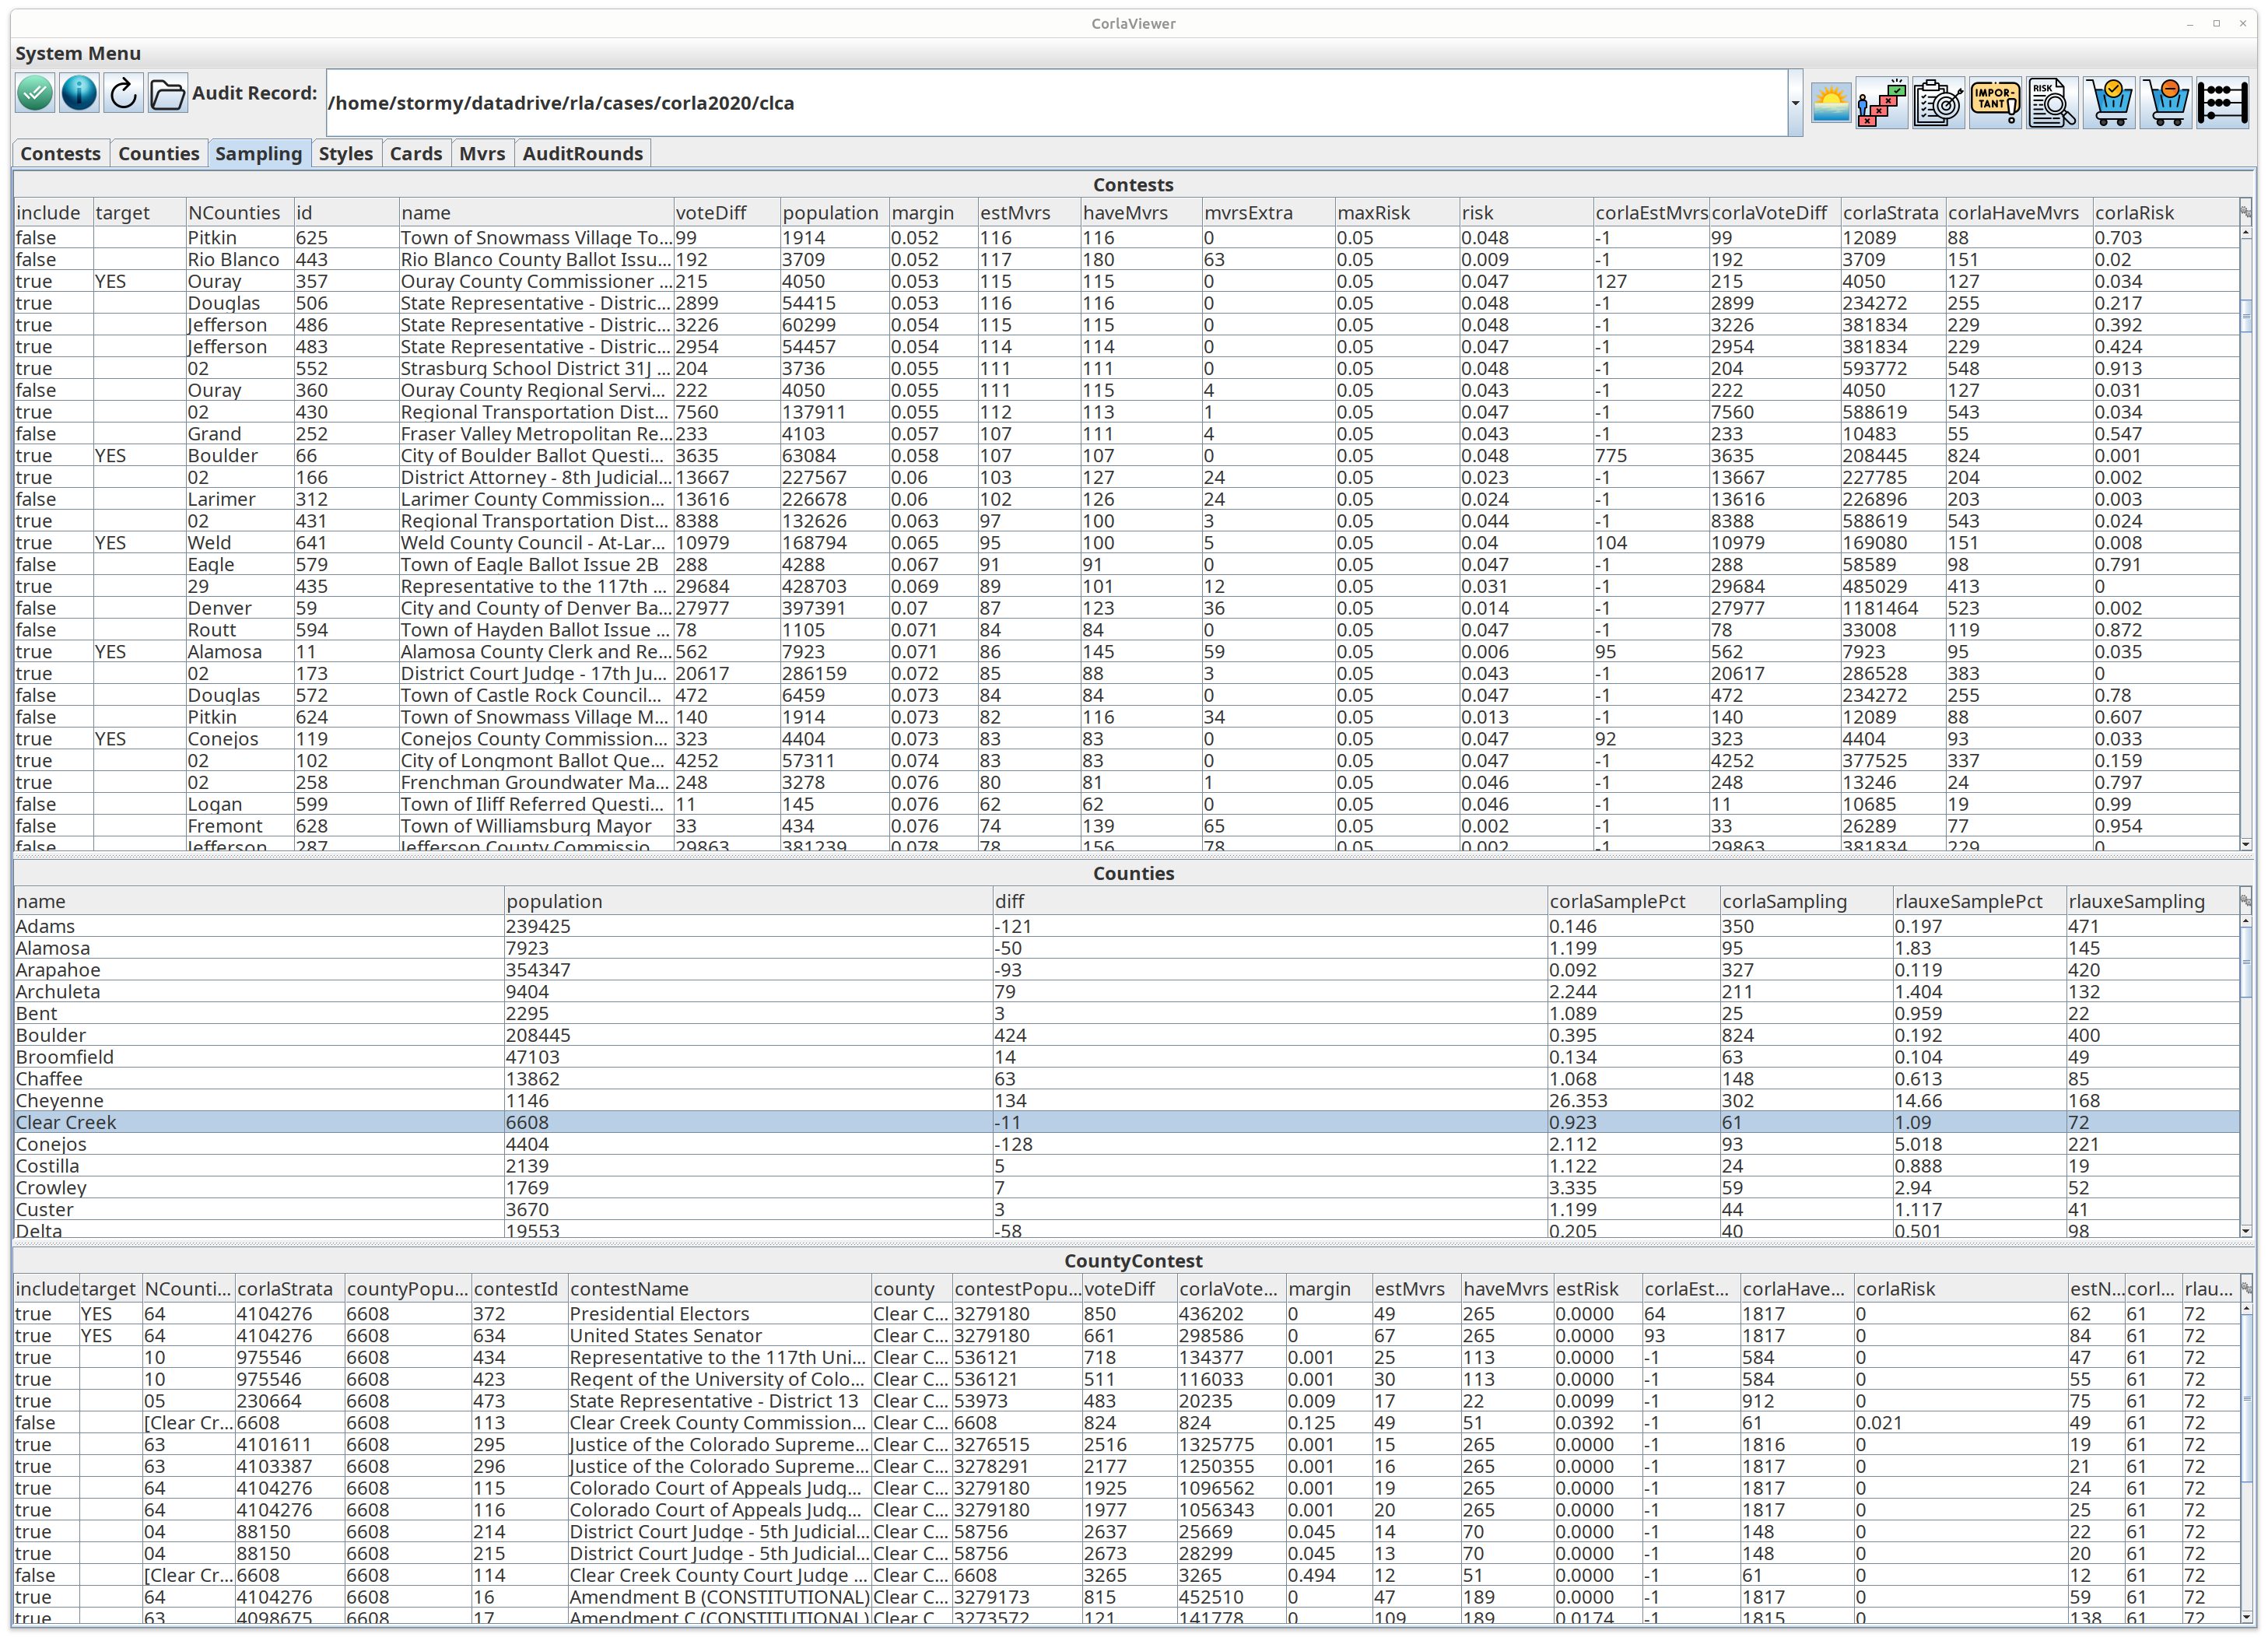
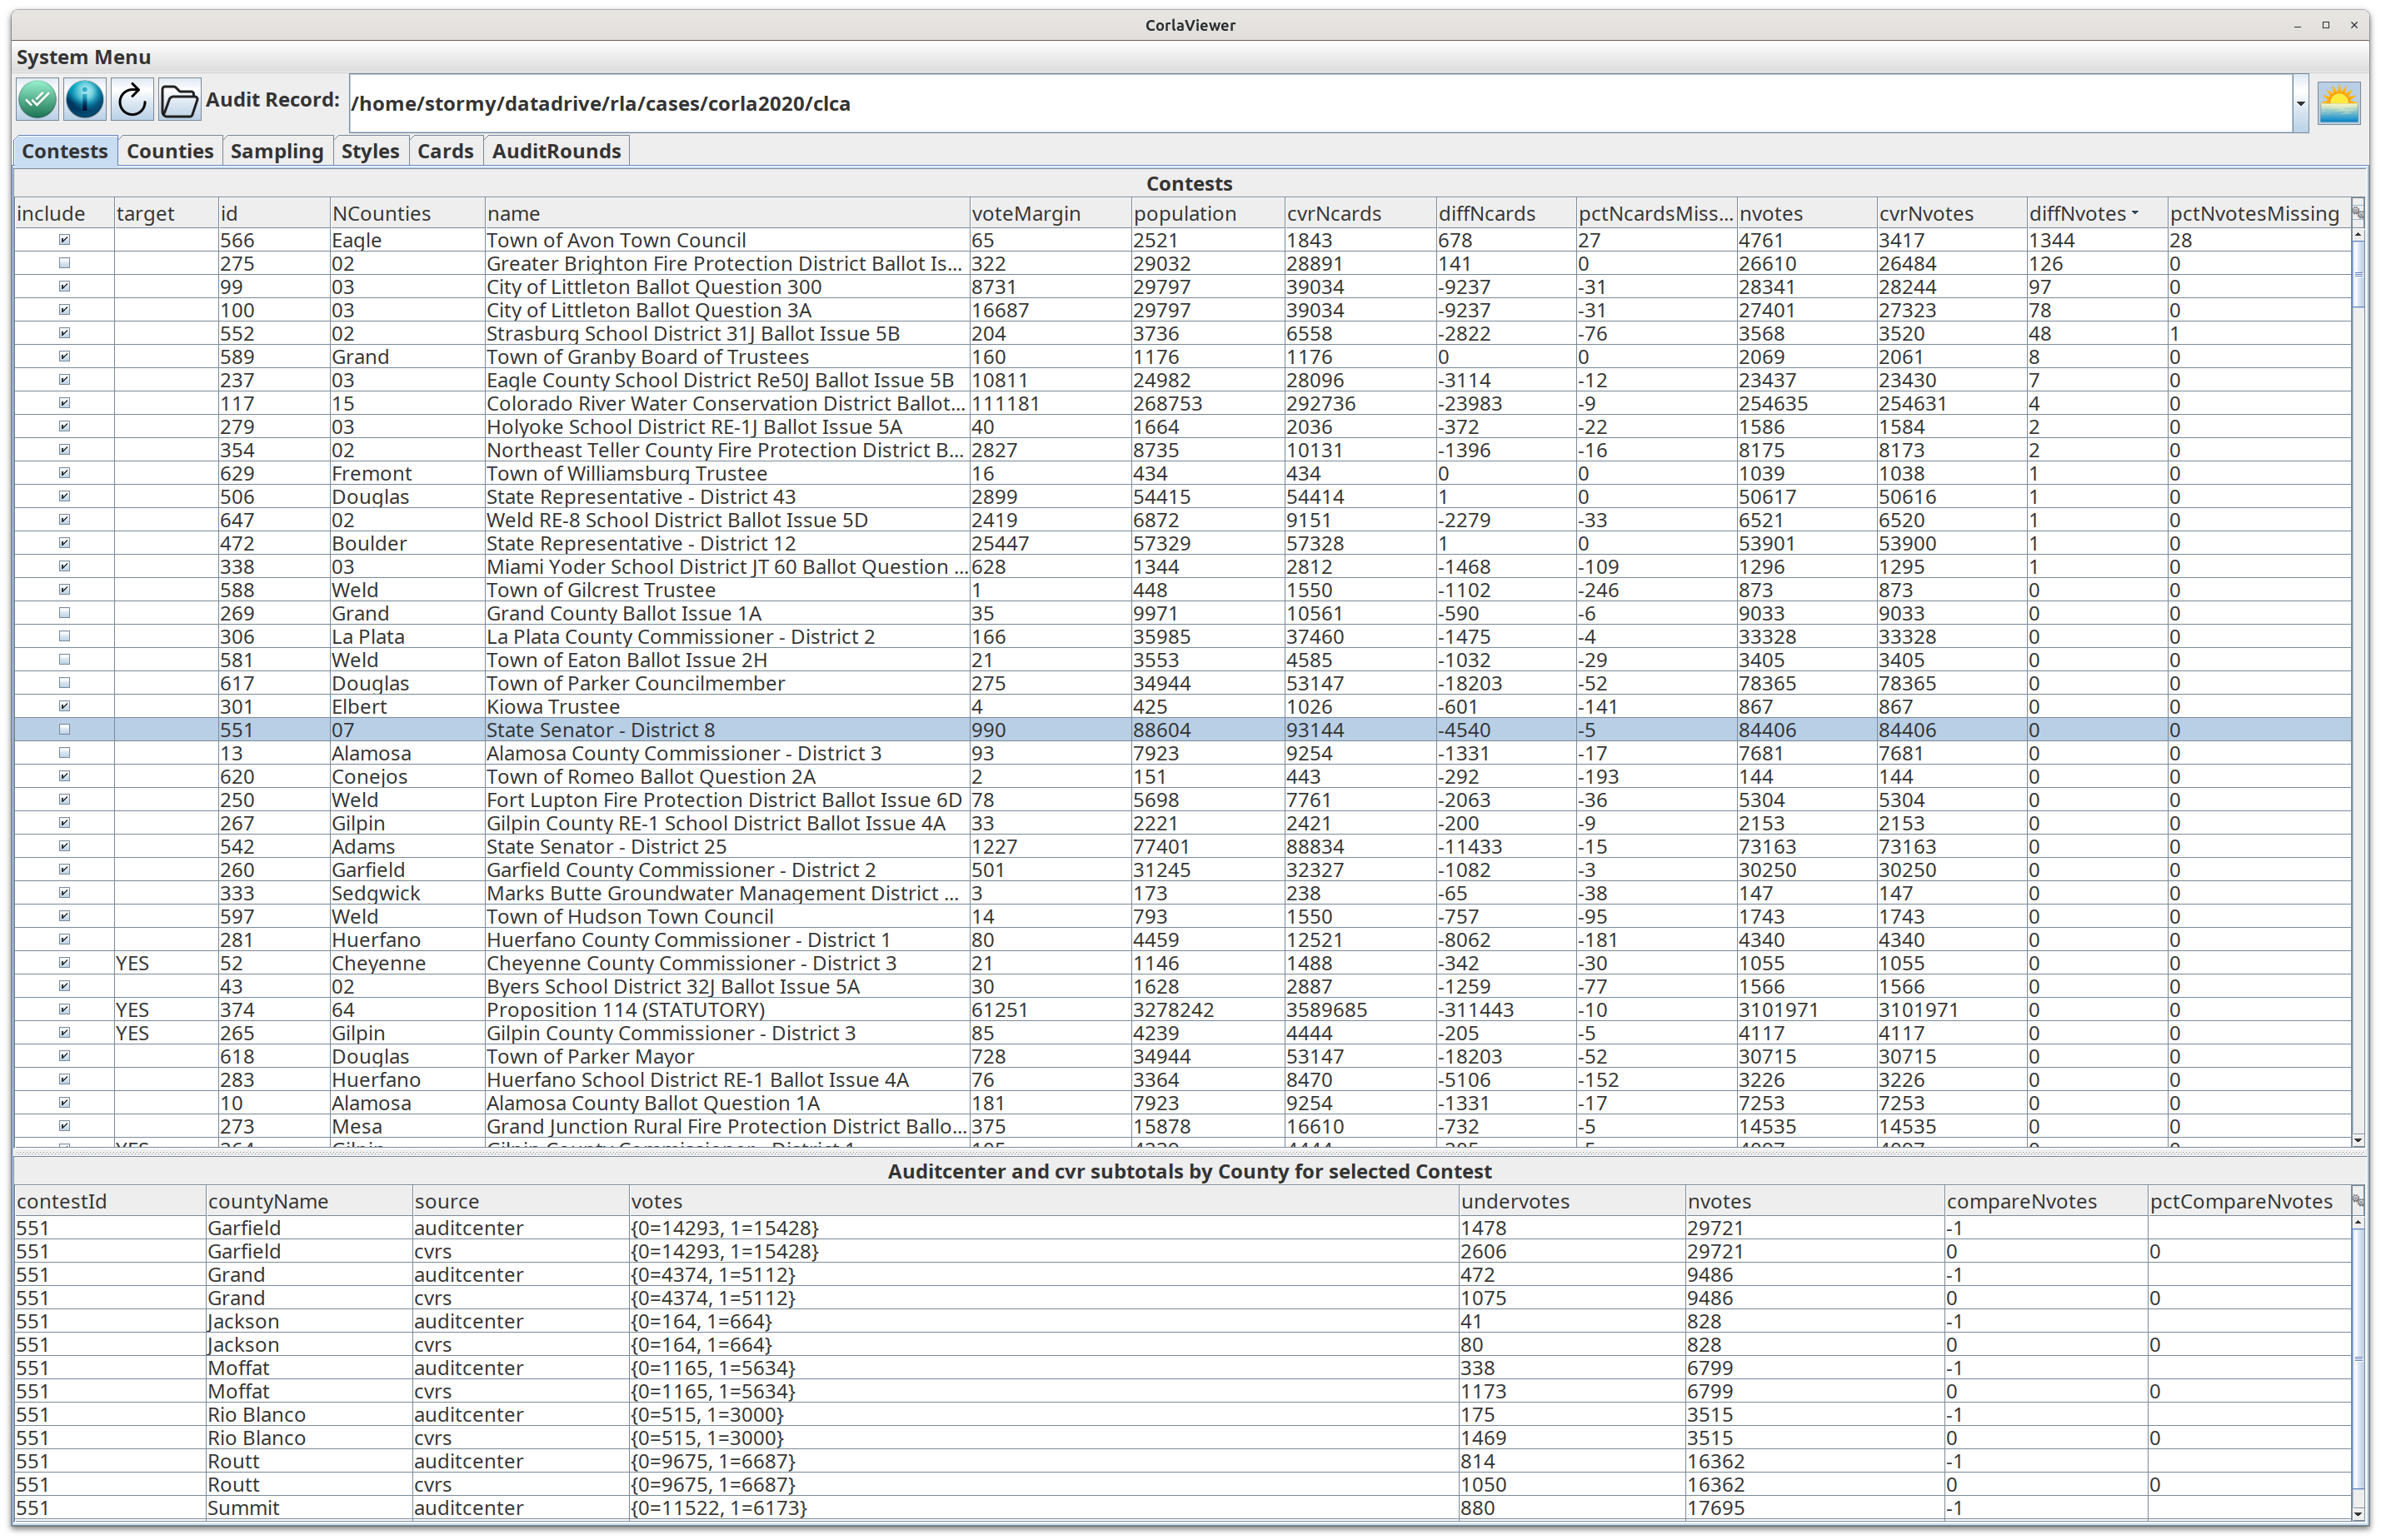
Merge pull request #75 from JohnLCaron/corlaDocs2
Corla docs2

Pull request: Corla docs2

diff --git a/viewer/src/main/kotlin/org/cryptobiotic/rlauxe/beans/BeanTableModel.kt b/viewer/src/main/kotlin/org/cryptobiotic/rlauxe/beans/BeanTableModel.kt
@@ -34,7 +34,7 @@ import kotlin.math.min
 private val logger: Logger = LoggerFactory.getLogger(BeanTableModel::class.java)
 
 
-private val showTableTypes = true
+private val showTableTypes = false
 private val debugBean = false
 private val debugEditing = false
 
@@ -226,7 +226,7 @@ class BeanTableModel<T>(val store: PreferencesExt, val beanClass: Class<T>, val 
     }
 
     // editing
-    override fun getColumnClass(col: Int): Class<*>? {
+    override fun getColumnClass(col: Int): Class<*> {
         return wrapPrimitives(properties.get(col).getPropertyType())
         // return properties.get(col).getPropertyType()
     }

diff --git a/README.md b/README.md
@@ -1,25 +1,20 @@
 # rlauxe-viewer
 
-WORK IN PROGRESS
-_last update: 06/22/2026_
+_last update: 06/29/2026_
 
 <!-- TOC -->
 * [rlauxe-viewer](#rlauxe-viewer)
   * [Building Rlauxe-viewer](#building-rlauxe-viewer)
-  * [Audit Case Study Data](#audit-case-study-data)
   * [Starting Rlauxe-viewer](#starting-rlauxe-viewer)
     * [From the command line](#from-the-command-line)
     * [From IntelliJ:](#from-intellij)
+  * [Using rlauxe-viewer](#using-rlauxe-viewer)
     * [Setting UI choices](#setting-ui-choices)
-  * [Showing the results of an audit](#showing-the-results-of-an-audit)
-  * [Special Features for Belgium Audits](#special-features-for-belgium-audits)
-    * [Limiting the number mvrs sampled](#limiting-the-number-mvrs-sampled)
-      * [Setting mvrLimit in the samplesLimit.txt file](#setting-mvrlimit-in-the-sampleslimittxt-file)
-    * [Choose Party coalitions](#choose-party-coalitions)
-    * [Party min/max seat algorithm](#party-minmax-seat-algorithm)
-    * [Show Contest with disputed assertions](#show-contest-with-disputed-assertions)
-    * [Show disputed Assertions](#show-disputed-assertions)
+    * [Showing the results of an audit](#showing-the-results-of-an-audit)
+  * [Specialized Viewers](#specialized-viewers)
 <!-- TOC -->
+
+A GUI for the [Rlauxe Risk Limiting Audit library](https://github.com/JohnLCaron/rlauxe).
 
 ## Building Rlauxe-viewer
 
@@ -37,11 +32,6 @@ cd <devhome>/rlauxe-viewer
 ````
 
 and check that `viewer/build/libs/viewer-uber.jar` was built.
-
-## Audit Case Study Data
-
-[The Rlauxe getting started page](https://github.com/JohnLCaron/rlauxe/blob/main/docs/Developer.md#getting-started) has instructions
-on how to build all of the case study datasets.
 
 ## Starting Rlauxe-viewer
 
@@ -88,6 +78,8 @@ In the editor, there should be a clickable green button on class ViewerMain:
 
 ![image](docs/images/ViewerMain.png).
 
+## Using rlauxe-viewer
+
 After the application starts, use the "Audit Record Chooser" button
 ![image](uibase/src/main/resources/resources/ui/png/Open-File-Folder-icon.png)
 to bring up the "Audit Record Chooser" widget,
@@ -132,7 +124,7 @@ Change the order and size of the table headings, by clicking and dragging the ta
 Change the table sort order by clicking the table header of the field you want to sort on. 
 
 
-## Showing the results of an audit
+### Showing the results of an audit
 
 If the audit has already run, clicking on the **AuditRounds** tab will show you the results by round:
 
@@ -162,132 +154,13 @@ The fields shown in the **Rerun audit with Details** report are:
 * mvr votes: MVR's votes
 * card: CVR's votes
 
+## Specialized Viewers
 
-## Special Features for Belgium Audits
+[The Rlauxe getting started page](https://github.com/JohnLCaron/rlauxe/blob/main/docs/Developer.md#getting-started) has instructions
+on how to build all of the case study datasets.
 
-To bring up the specialized Belgium Audit viewer, add -belgiumAudit to the command line, for example:
-
-`java -jar viewer/build/libs/rlauxe-viewer-uber.jar -belgiumAudit`
-
-Use the Audit Record chooser to navigate to the top of the Belgium Audit Record, and select it.
-
-![image](docs/images/belgium/BelgiumViewer.png)
-
-The first table shows all the contests, ie the electoral districts. Choosing a contest shows its assertions in the second table. 
-The total seats for each party (aka candidate) across all contests are shown in the third table.
-
-### Limiting the number mvrs sampled
-
-In the assertion table, the _estMvrs_ column shows how many mvrs will be needed to satisfy the risk limit for that assertion,
-when no discrepancies between the mvrs and the cvrs are found.
-
-The same field in the contest table shows the maximum needed over all assertions for that contest. The contest _mvrLimit_ allows you
-to limit the number of mvrs for that electoral district. Click in the cell, and enter the mvr limit for that contest.
-The value of -1 means no limit, so the audit will use the value of estMvrs.
-
-If mvrLimit is less than estMvrs, some of the assertions will fail, meaning that the risk will be above the risk limit (in this example 5%).
-You can see this in the _estRisk_ field of the assertion table.
-
-The game is to try to minimize the number of mvrs and minimize the number of failing assertions.
-
-The status button in the upper right displays the total mvrs and the number of failed assertions over all contests.
-
-
-#### Setting mvrLimit in the samplesLimit.txt file
-
-In the top directory, there may be a samplesLimit.txt file:
-
-![image](docs/images/belgium/SampleLimits.png)
-
-In this example, that file has the following content:
-
-
-````
-contest name, contest id, mvrLimit
-Anvers, 1, 1884
-Bruxelles, 2, 1760
-FlandreEast, 4, 800
-Hainut, 5, 550
-Liege, 6, 640
-````
-
-And you can see that these values are used as the defaults for _mvrLimit_ in the Contests table of the BelgianViewr.
-If a contest is not listed, then mvrLimit is not set.
-
-This file is read in and used if present upon startup. You may edit this file by hand, and then use the **reread sample limits** button
-in the upper right to reread it. After reading it in, you may modify the mvrLimits by hand. These changes are not
-written back to the samplesLimit file.
-
-### Choose Party coalitions
-
-In the Party Coalition table, each party is shown with the reported number of seats won over all contests, along with 
-the number of failed assertions that affect that party (if all contests draw _estMvrs_ samples there will be no failures). 
-
-When there are failures, the _minSeats_ / _maxSeats_ columns show the minimum/maximum number of seats the party won if 
-all _disputed assertions_ are flipped against it / in favor of it.
-
-You can choose party coalitions by clicking on the _include_ column of the party. The number of min/reported/max seats is 
-shown for that coalition of parties. This is not the sum over parties of those fields, because if a disputed assertion has both its
-winner and loser in the coalition, than the number of seats for the coalition is not affected by the dispute.
-
-### Party min/max seat algorithm
-
-The algorithm for computing the _minSeats_ / _maxSeats_ for a party and a coalition is still being investigated. See [D'Hondt coalition min/max calculation](https://github.com/JohnLCaron/rlauxe/blob/main/docs/Dhondt.md) for the current algorithm used in rlauxe. The following examples may
-vary in some details from the latest versions.
-
-### Show Contest with disputed assertions
-
-Select a Contest in the top table, right click and choose **Show Contest**. In addition to the first two sections shown for Contests of all types,
-in section three DHondt contests show the scoring rounds and winning parties, as well as the parties who didnt clear the threshold (with an asterisk).
-In section four the reported winners (plus first 3 losers) are shown sorted by their score = total votes / round 
-(the scoreDiff column is the difference of each row's score with the row above): 
-
-![image](docs/images/belgium/ShowDHondtContest.png)
-
-When there are disputed (aka failed assertions) there is a fifth section showing all disputed assertions for that contest:
-
-![image](docs/images/belgium/ShowDisputedContest.png)
-
-This will be explained below.
-
-### Show disputed Assertions
-
-In this example we have selected FlandreEast, and its assertions are shown in the Assertions table, which we reverse sort on the
-_estMvrs_ field (estimated number of mvrs needed):
-
-![image](docs/images/belgium/DisputedAssertions.png)
-
-The corresponding _estRisk_ (estimated risk) field shows that the first assertion is estimated to miss the 5% risk limit.
-(We chose the mvrLimit to satisfy as many assertions as possible, but this assertion was deemed too costly).
-
-Select that assertion, right click and choose **Show Assertion**. The detail window shows:
-
-![image](docs/images/belgium/ShowDisputedAssertion.png)
-
-The selected assertion is "winner=Vooruit-3 loser=CD&V-3". Since this is disputed, the alternate (or flipped) assertion is "winner=CD&V-3 loser=Vooruit-3".
-
-The section "Alternate Contest from FlandreEast" shows what the scoring looks like using the flipped assertion. Compare this to the reported scoring in the "Show Contest" for FlandreEast, where Vooruit-3  wins the last seat and CDV-3 is the first loser. Now CDV-3 wins the last seat and Vooruit-3 is the first loser. 
-
-The alternate contest generates all the assertions needed under this alternate scoring. We show only the ones that will fail (because of mvrLimit), namely
-the flipped assertion (winner=CD&V-3 loser=Vooruit-3), and also the "winner=CD&V-3 loser=open vld-3" assertion. This second assertion is
-not present in the original contests since both CD&V-3 and open vld-3 are losers. 
-
-Not shown in the output, but we compute an alternate contest for this second new assertion, and see if it has failures that we dont already have in the contest.
-A new failure will keep recursing if it generates a different new failure. If it does generate a new failure, we show the alternate contest that generated it.
-(I think we dont have any examples of that?).
-
-In this case, no other failures are generated, and these two assertions are the only ones shown in FlandreEast "Show Contest".
-
-When there are multiple failed assertions, say for Anvers which has 3 failed assertions, then for each failed assertion we compute the Alternate Contest 
-and all the failed assertions it creates. We keep track of failed assertions for the entire contest; we stop recursing if we alredy have seen a particular failed assertion. Each of the 3 failed assertions for Anvers generates the same list of 4 failed assertions. So Anvers has 4 failed assertions altogether.
-
-(TODO: we have not tried combinations of failed assertions to see if new failures are found).
-
-Hainut is special in that its the only one in this example that has a Threshold assertion failure. However, the algorithm is the same: create an alternate contest
-and find the failed assertions. Recurse on those to see if new failures are found.
-
-(TODO: also not tested are combinations of multiple failed threshold assertions (in the same contest) to see if new failures are found).
-
+* [Belgium Viewer](docs/BelgiumViewer.md)
+* [Colorado Viewer](docs/CorlaViewer.md)
 
 
 

diff --git a/docs/images/BelgiumViewer.md b/docs/images/BelgiumViewer.md
@@ -1,0 +1,125 @@
+# Belgium (D'Hondt) Viewer
+_06/29/2026_
+
+To bring up the specialized Belgium Audit viewer, add -belgiumAudit to the command line:
+
+`java -jar viewer/build/libs/rlauxe-viewer-uber.jar -belgiumAudit`
+
+Use the Audit Record chooser to navigate to the top of the Belgium Audit Record, and select it.
+
+![image](images/belgium/BelgiumViewer.png)
+
+The first table shows all the contests, ie the electoral districts. Choosing a contest shows its assertions in the second table.
+The total seats for each party (aka candidate) across all contests are shown in the third table.
+
+### Limiting the number mvrs sampled
+
+In the assertion table, the _estMvrs_ column shows how many mvrs will be needed to satisfy the risk limit for that assertion,
+when no discrepancies between the mvrs and the cvrs are found.
+
+The same field in the contest table shows the maximum needed over all assertions for that contest. The contest _mvrLimit_ allows you
+to limit the number of mvrs for that electoral district. Click in the cell, and enter the mvr limit for that contest.
+The value of -1 means no limit, so the audit will use the value of estMvrs.
+
+If mvrLimit is less than estMvrs, some of the assertions will fail, meaning that the risk will be above the risk limit (in this example 5%).
+You can see this in the _estRisk_ field of the assertion table.
+
+The game is to try to minimize the number of mvrs and minimize the number of failing assertions.
+
+The status button in the upper right displays the total mvrs and the number of failed assertions over all contests.
+
+
+#### Setting mvrLimit in the samplesLimit.txt file
+
+In the top directory, there may be a samplesLimit.txt file:
+
+![image](images/belgium/SampleLimits.png)
+
+In this example, that file has the following content:
+
+
+````
+contest name, contest id, mvrLimit
+Anvers, 1, 1884
+Bruxelles, 2, 1760
+FlandreEast, 4, 800
+Hainut, 5, 550
+Liege, 6, 640
+````
+
+And you can see that these values are used as the defaults for _mvrLimit_ in the Contests table of the BelgianViewr.
+If a contest is not listed, then mvrLimit is not set.
+
+This file is read in and used if present upon startup. You may edit this file by hand, and then use the **reread sample limits** button
+in the upper right to reread it. After reading it in, you may modify the mvrLimits by hand. These changes are not
+written back to the samplesLimit file.
+
+### Choose Party coalitions
+
+In the Party Coalition table, each party is shown with the reported number of seats won over all contests, along with
+the number of failed assertions that affect that party (if all contests draw _estMvrs_ samples there will be no failures).
+
+When there are failures, the _minSeats_ / _maxSeats_ columns show the minimum/maximum number of seats the party won if
+all _disputed assertions_ are flipped against it / in favor of it.
+
+You can choose party coalitions by clicking on the _include_ column of the party. The number of min/reported/max seats is
+shown for that coalition of parties. This is not the sum over parties of those fields, because if a disputed assertion has both its
+winner and loser in the coalition, than the number of seats for the coalition is not affected by the dispute.
+
+### Party min/max seat algorithm
+
+The algorithm for computing the _minSeats_ / _maxSeats_ for a party and a coalition is still being investigated. See [D'Hondt coalition min/max calculation](https://github.com/JohnLCaron/rlauxe/blob/main/docs/Dhondt.md) for the current algorithm used in rlauxe. The following examples may
+vary in some details from the latest versions.
+
+### Show Contest with disputed assertions
+
+Select a Contest in the top table, right click and choose **Show Contest**. In addition to the first two sections shown for Contests of all types,
+in section three DHondt contests show the scoring rounds and winning parties, as well as the parties who didnt clear the threshold (with an asterisk).
+In section four the reported winners (plus first 3 losers) are shown sorted by their score = total votes / round
+(the scoreDiff column is the difference of each row's score with the row above):
+
+![image](images/belgium/ShowDHondtContest.png)
+
+When there are disputed (aka failed assertions) there is a fifth section showing all disputed assertions for that contest:
+
+![image](images/belgium/ShowDisputedContest.png)
+
+This will be explained below.
+
+### Show disputed Assertions
+
+In this example we have selected FlandreEast, and its assertions are shown in the Assertions table, which we reverse sort on the
+_estMvrs_ field (estimated number of mvrs needed):
+
+![image](images/belgium/DisputedAssertions.png)
+
+The corresponding _estRisk_ (estimated risk) field shows that the first assertion is estimated to miss the 5% risk limit.
+(We chose the mvrLimit to satisfy as many assertions as possible, but this assertion was deemed too costly).
+
+Select that assertion, right click and choose **Show Assertion**. The detail window shows:
+
+![image](images/belgium/ShowDisputedAssertion.png)
+
+The selected assertion is "winner=Vooruit-3 loser=CD&V-3". Since this is disputed, the alternate (or flipped) assertion is "winner=CD&V-3 loser=Vooruit-3".
+
+The section "Alternate Contest from FlandreEast" shows what the scoring looks like using the flipped assertion. Compare this to the reported scoring in the "Show Contest" for FlandreEast, where Vooruit-3  wins the last seat and CDV-3 is the first loser. Now CDV-3 wins the last seat and Vooruit-3 is the first loser.
+
+The alternate contest generates all the assertions needed under this alternate scoring. We show only the ones that will fail (because of mvrLimit), namely
+the flipped assertion (winner=CD&V-3 loser=Vooruit-3), and also the "winner=CD&V-3 loser=open vld-3" assertion. This second assertion is
+not present in the original contests since both CD&V-3 and open vld-3 are losers.
+
+Not shown in the output, but we compute an alternate contest for this second new assertion, and see if it has failures that we dont already have in the contest.
+A new failure will keep recursing if it generates a different new failure. If it does generate a new failure, we show the alternate contest that generated it.
+(I think we dont have any examples of that?).
+
+In this case, no other failures are generated, and these two assertions are the only ones shown in FlandreEast "Show Contest".
+
+When there are multiple failed assertions, say for Anvers which has 3 failed assertions, then for each failed assertion we compute the Alternate Contest
+and all the failed assertions it creates. We keep track of failed assertions for the entire contest; we stop recursing if we alredy have seen a particular failed assertion. Each of the 3 failed assertions for Anvers generates the same list of 4 failed assertions. So Anvers has 4 failed assertions altogether.
+
+(TODO: we have not tried combinations of failed assertions to see if new failures are found).
+
+Hainut is special in that its the only one in this example that has a Threshold assertion failure. However, the algorithm is the same: create an alternate contest
+and find the failed assertions. Recurse on those to see if new failures are found.
+
+(TODO: also not tested are combinations of multiple failed threshold assertions (in the same contest) to see if new failures are found).

diff --git a/docs/CorlaViewer.md b/docs/CorlaViewer.md
@@ -1,18 +1,42 @@
 # Corla Viewer
+_06/29/2026_
 
-To run the Corla Viewer from the command line:
+## Colorado auditcenter data
 
-First, [build the jar file](https://github.com/JohnLCaron/rlauxe-viewer#building-rlauxe-viewer) if needed.
+Neal McBurnett has done an amazing job of collecting Colorado election data since 2017 as published by 
+the State of Colorado. To view it, clone his git repository:
+
+git clone https://github.com/nealmcb/auditcenter
+
+and follow directions in the [rlauxe library git repo](https://github.com/JohnLCaron/rlauxe/blob/main/docs/Developer.md)
+
+## Build and Run the Viewer
+
+First, [build the jar file](https://github.com/JohnLCaron/rlauxe-viewer#building-rlauxe-viewer) if needed:
 
 Make sure you are in the rlauxe-viewer local git repo:
 
-cd <devhome>/rlauxe-viewer
+`cd <devhome>/rlauxe-viewer`
 
 Then run
 
-`java -jar viewer/build/libs/viewer-uber.jar -corlaAudit`
+`java -jar viewer/build/libs/rlauxe-viewer-uber.jar -corlaAudit`
 
 ![image](images/corla/CorlaViewer.png)
 
-The first table shows all the contests, ie the electoral districts. Choosing a contest shows its assertions in the second table.
-The total seats for each party (aka candidate) across all contests are shown in the third table.
+## Contests Table
+
+The Contests table compares auditcenter information with cvrs. For example, nvotes is from the auditcenter, cvrNvotes
+is from the cvrs, diffNvotes is their difference, and pctNvotesMissing is their percent differemce, with nvotes as the denominator.
+
+Select a contest and its breakdown by county is shown in the lower table. Note that there are two rows for each COunty, one from the auditcenter and one from the cvrs.
+
+Right-click on a contest row to see an description of each visible column aand details about the selected record.
+
+![image](images/corla/DetailsWindow.png)
+
+Click on a table's top right corner gear icon ![gear](images/TableColumnGear.png) to bring up the table column chooser: 
+
+![image](images/TableColumnMenu.png)
+
+which shows the table's columns to show or remove from the table.